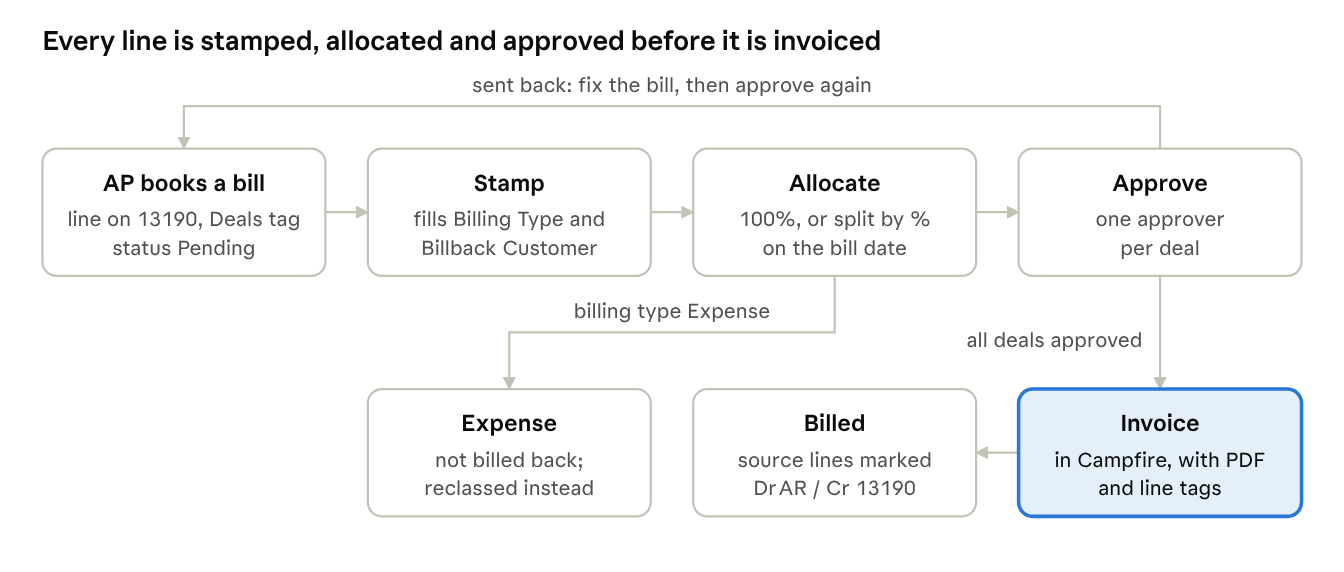
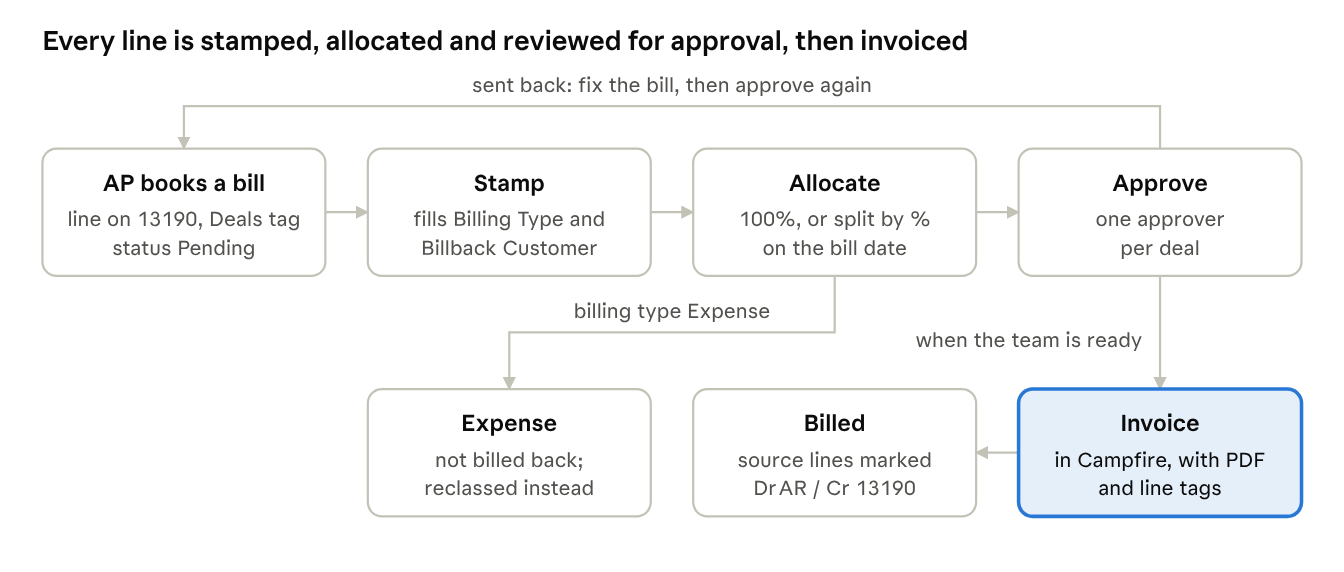
Guide: flow diagram reflects approval as advice
Claude-Session: https://claude.ai/code/session_01F6qjmcNoZ1GG3kGhr5PsHq

Changed region(s): [[0.375, 0.0594, 0.7188, 0.0892], [0.6875, 0.5647, 0.8438, 0.6241]]

diff --git a/docs/IMPLEMENTATION.md b/docs/IMPLEMENTATION.md
@@ -22,7 +22,7 @@ This guide is for the **Campfire implementer** setting Rekindle up for a new pri
 
 Every reimbursable expense moves through four stages, and its **Billback Status** tag in Campfire shows where it is: Pending, then Allocated Pending Invoice for a split line part-way invoiced, then Billed.
 
-![Every line is stamped, allocated and approved before it is invoiced](images/billback-flow.png)
+![Every line is stamped, allocated and reviewed for approval, then invoiced](images/billback-flow.png)
 
 A deal sent back goes to AP to fix the bill, then returns for approval; Expense lines leave the flow at allocation.
 
